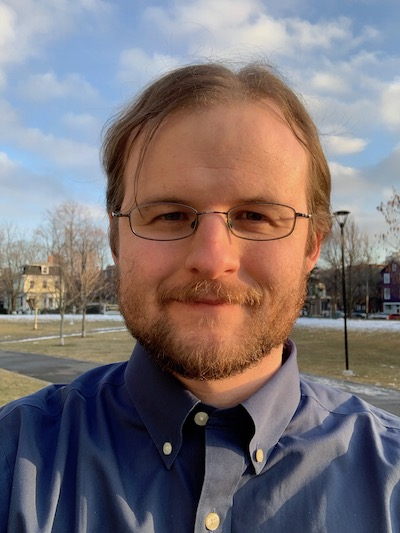
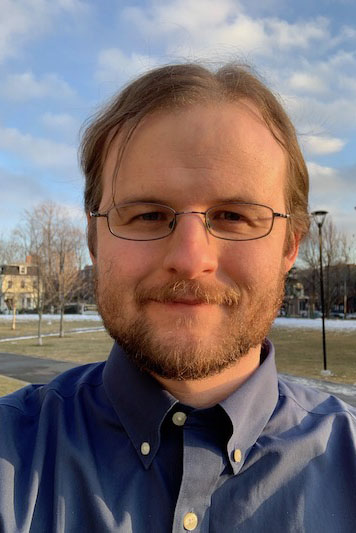
updated content and design

diff --git a/static/css/screen.min.css b/static/css/screen.min.css
@@ -1,1 +1,1 @@
-html,body,div,span,applet,object,iframe,h1,h2,h3,h4,h5,h6,p,blockquote,pre,a,abbr,acronym,address,big,cite,code,del,dfn,em,img,ins,kbd,q,s,samp,small,strike,strong,sub,sup,tt,var,b,u,i,center,dl,dt,dd,ol,ul,li,fieldset,form,input,label,legend,table,caption,tbody,tfoot,thead,tr,th,td,article,aside,canvas,details,embed,figure,figcaption,footer,header,hgroup,menu,main,nav,output,ruby,section,summary,time,mark,audio,video{margin:0;padding:0;border:0;-webkit-box-sizing:border-box;box-sizing:border-box}article,aside,details,figcaption,figure,footer,header,hgroup,main,menu,nav,section{display:block}nav ol,nav ul{list-style:none}blockquote,q{quotes:none}blockquote:before,blockquote:after,q:before,q:after{content:'';content:none}table{border-collapse:collapse;border-spacing:0}button,input[type=submit]{cursor:pointer}h1{font-size:42px;font-weight:lighter}h2{font-size:26px;font-weight:lighter}h3{font-size:20px;font-weight:lighter}p{font-size:15px;font-weight:lighter;color:#909090}a{font-size:20px;text-decoration:none}html,body{width:100%;height:100%}body{background-color:#fff;font-family:"Lato",sans-serif;color:#424242}.contact{width:100%;min-height:100px;padding:20px 0;background-color:#ecf0f1;text-align:left}.contact__inner{max-width:1024px;margin:0 auto}.contact__inner:after{content:'';display:table;clear:both}.contact__title{font-size:28px;font-weight:400;margin-bottom:10px;text-transform:capitalize;text-align:center}.contact__descr{font-size:14px;font-weight:400;margin-bottom:55px;text-align:center}.contact__form{display:block;float:left;max-width:465px;margin:0 15px 0 40px}.contact__form:after{content:'';display:table;clear:both}.contact__form-input{display:inline-block;width:220px;height:45px;margin-bottom:20px;padding-left:12px;border:2px solid #bec3c7;font-style:italic;color:#999}.contact__form-input:first-of-type{margin-right:20px}.contact__form-tarea{display:block;-webkit-box-sizing:border-box;box-sizing:border-box;width:465px;height:155px;margin-bottom:25px;padding:20px 0 0 12px;border:2px solid #bec3c7;font-style:italic;color:#999;resize:none}.contact__form-submit{display:block;float:right;width:115px;height:35px;text-align:center;background-color:#1bbc9b;font-size:15px;color:#fff;text-transform:uppercase;-webkit-transition:all .5s;-o-transition:all .5s;transition:all .5s}.contact__form-submit:hover{background-color:#158f76}.contact__card{display:inline-block;width:230px;height:150px}.contact__card-title{margin-bottom:20px;font-size:14px;line-height:.5;text-transform:uppercase}.contact__card-item{position:relative;font-size:14px;line-height:24px}.contact__card-item:before{display:block;position:absolute;top:0;left:0;font-family:FontAwesome}.contact__card-item.place{padding-left:15px;margin-bottom:15px}.contact__card-item.place:before{content:"\f041"}.contact__card-item.tel{padding-left:17px;margin-bottom:10px}.contact__card-item.tel:before{content:"\f098"}.contact__card-item.fax:before{content:"\f02f"}.contact__card-item.email{display:inline-block;padding-left:20px;font-size:14px;line-height:24px;color:#444}.contact__card-item.email:before{content:"\f003"}.contact__card-item.email:hover{text-decoration:underline}.page-header{width:100%;min-height:95px;background-color:#fff}.page-header:after{content:'';display:table;clear:both}.page-header.is-fixed{position:fixed;top:0;left:0;z-index:999;-webkit-box-shadow:0 2px 4px 0 #424242;box-shadow:0 2px 4px 0 #424242}.page-header__inner{max-width:1024px;margin:0 auto}.page-header__inner:after{content:'';display:table;clear:both}.page-header__logo{float:left;height:50px;margin:25px 0 0 40px;padding:5px 0 0 65px;background:url(../images/logo.jpg) 0 center no-repeat}.page-header__logo h1{font-size:20px;font-weight:700;text-transform:uppercase}.page-header__logo span{font-size:14px;text-transform:capitalize}.page-header__nav{float:right;margin:30px 55px 0 0;background-color:#fff}.page-header__nav li{display:inline-block;margin-left:5px}.page-header__nav-link{display:inline-block;font-size:14px;text-transform:uppercase;padding:10px;-webkit-transition:background-color .2s;-o-transition:background-color .2s;transition:background-color .2s;color:#424242}.page-header__nav-link:hover,.page-header__nav-link.is-active{background-color:#1bbc9b;color:#fff}.page-footer{width:100%;min-height:85px;padding-bottom:30px;background-color:#2d3e50}.page-footer__inner{max-width:1024px;margin:0 auto}.page-footer__inner:after{content:'';display:table;clear:both}.page-footer__copyright{display:inline-block;margin:35px 0 0 45px;font-size:14px;color:#fff}.page-footer__gotop{display:block;float:right;width:45px;height:45px;margin:20px 45px 0 0;font-size:0;text-align:center;overflow:hidden;background-color:#1bbc9b;color:transparent;-webkit-transition:all .5s;-o-transition:all .5s;transition:all .5s}.page-footer__gotop:hover{background-color:#158f76}.page-footer__gotop:before{font-size:20px;line-height:45px;font-family:FontAwesome;content:"\f077";color:#fff}.portfolio{width:100%;min-height:680px;padding-top:50px;background-color:#fff;text-align:center}.portfolio__inner{max-width:1024px;margin:0 auto}.portfolio__inner:after{content:'';display:table;clear:both}.portfolio__title{font-size:40px;font-weight:400;margin-bottom:10px}.portfolio__descr{font-size:18px;font-weight:400;margin-bottom:40px;text-align:justify}.portfolio__filter li{display:inline-block;margin:0 10px;cursor:pointer}.portfolio__filter-btn{display:inline-block;font-size:14px;text-transform:uppercase;padding:10px;color:#fff;background-color:#1bbc9b;-webkit-transition:background-color .2s;-o-transition:background-color .2s;transition:background-color .2s}.portfolio__filter-btn:hover,.portfolio__filter-btn.is-selected{background-color:#158f76}.portfolio__content{margin:45px auto 60px}.portfolio__item{position:relative;display:inline-block;width:180px;height:180px;margin:0 30px 35px;-webkit-border-radius:50%;border-radius:50%;overflow:hidden}.portfolio__item.is-hidden{display:none}.portfolio__item-img{display:inline-block;height:100%;margin:0 auto}.portfolio__item-caption{visibility:hidden;position:absolute;width:100%;height:100%;top:0;padding-top:35px;background-color:#1bbc9b;background-color:rgba(27,188,155,.8);-webkit-border-radius:50%;border-radius:50%;color:#fff;opacity:0;-webkit-transition:all .5s;-o-transition:all .5s;transition:all .5s}.portfolio__item:hover .portfolio__item-caption{opacity:1;visibility:visible}.portfolio__item-title{display:block;font-size:18px;margin-bottom:10px}.portfolio__item-title:before{content:"\f002";-webkit-box-sizing:border-box;box-sizing:border-box;display:block;width:40px;height:40px;-webkit-border-radius:50%;border-radius:50%;margin:0 auto 20px;padding-top:10px;background-color:#ccc;background-color:rgba(0,0,0,.5);font-family:FontAwesome;text-align:center}.portfolio__item-cat{display:block;font-size:15px}.promo{width:100%;min-height:455px;padding:70px 0;background:#323232 url(../images/promo-bg.jpg) center 0 no-repeat;background-attachment:fixed;background-size:cover;text-align:center;color:#fff}.promo__inner{max-width:1024px;margin:0 auto}.promo__inner:after{content:'';display:table;clear:both}.promo__title{margin-bottom:35px;font-size:50px;text-transform:capitalize}.promo__title span{font-weight:700}.promo__descr{max-width:580px;margin:0 auto 50px;font-size:18px;line-height:1.1;color:#fff}.promo__btn{display:block;width:125px;height:35px;margin:0 auto 45px;padding-top:10px;background-color:#1bbc9b;font-size:15px;color:#fff;text-transform:uppercase;-webkit-transition:all .5s;-o-transition:all .5s;transition:all .5s}.promo__btn:hover{background-color:#158f76}.promo__go-next{display:block;width:40px;height:40px;margin:0 auto;background-color:#fff;-webkit-border-radius:50%;border-radius:50%;font-size:0;color:#323232;-webkit-transition:-webkit-transform .5s;transition:-webkit-transform .5s;-o-transition:transform .5s;transition:transform .5s;transition:transform .5s,-webkit-transform .5s}.promo__go-next:before{font-size:30px;line-height:40px;font-family:FontAwesome;content:"\f078"}.promo__go-next:hover{-webkit-transform:scale(1.2);-ms-transform:scale(1.2);transform:scale(1.2)}.team{width:100%;min-height:645px;padding-top:55px;background-color:#16a086;text-align:center}.team__inner{max-width:1024px;margin:0 auto}.team__inner:after{content:'';display:table;clear:both}.team__title{font-size:28px;font-weight:400;margin-bottom:10px;color:#fff;text-transform:capitalize}.team__descr{font-size:14px;font-weight:400;margin-bottom:45px;color:#fff}.team__member{display:inline-block;position:relative;width:220px;margin:0 30px 30px;background-color:#fff}.team__member img{width:100%}.team__member-info{display:block;width:100%;height:190px;padding:15px 10px}.team__member-name{margin-bottom:5px;font-size:18px}.team__member-role{display:block;margin-bottom:20px;font-size:13px;font-style:italic;text-transform:capitalize}.team__member-descr{text-align:left;line-height:1.3}.team__member-soc{display:block;position:absolute;width:180px;height:50px;top:95px;left:50%;margin-left:-90px;background-color:#16a086;background-color:rgba(22,160,134,.8);white-space:nowrap;overflow:hidden;opacity:0;visibility:hidden;-webkit-transition:all .5s;-o-transition:all .5s;transition:all .5s}.team__member:hover .team__member-soc{opacity:1;visibility:visible}.team__member-soc li{display:inline-block}.team__member-icon{display:block;width:45px;height:50px;margin-left:-3px;color:#fff;-webkit-transition:all .3s;-o-transition:all .3s;transition:all .3s;font-size:0}.team__member-icon:hover{color:#c1c1c1}.team__member-icon:before{display:block;font-family:FontAwesome;font-size:30px;line-height:50px}.team__member-icon.fb:before{content:"\f09a"}.team__member-icon.tw:before{content:"\f099"}.team__member-icon.gplus:before{content:"\f0d5"}.team__member-icon.db:before{content:"\f17d"}@media screen and (max-width:1000px){.portfolio__item{width:170px;height:170px;margin:0 1.5% 35px}.team__member{width:190px;margin:0 20px 30px}}@media screen and (max-width:800px){.contact__form{max-width:50%;margin:0 2% 0 8%}.contact__form-input{width:100%}.contact__form-tarea{width:100%}.contact__card{width:40%}.page-header__logo{margin:25px 0 0 10px}.page-header__nav{margin:30px 10px 0 0}.portfolio__item{width:190px;height:190px;margin:0 5% 35px}.team__member{width:180px;margin:0 10px 30px}}@media screen and (max-width:640px){.contact{padding:10px 10px}.contact__form{float:none;max-width:90%;margin:0 auto 50px}.contact__card{display:block;width:230px;margin:20px auto}.contact__card-title{text-align:center}.page-header__logo h1{display:none}.page-header__logo span{display:none}.page-header__nav li{margin-left:0}.portfolio{padding:50px 10px}.portfolio__filter li{margin:0 5px}.team{padding:55px 10px}.team__member{display:block;width:260px;margin:0 auto 30px}.team__member-info{height:auto}.team__member-descr{display:none}.team__member-soc{width:260px;top:220px;margin-left:-130px}}@media screen and (max-width:480px){.contact__form-submit{float:none;margin:0 auto}.page-header{min-height:50px}.page-header__inner{text-align:center}.page-header__logo{float:none;position:relative;display:inline-block;margin:20px auto 10px;text-align:left}.page-header__logo h1{display:block}.page-header__logo span{display:inline-block}.page-header__nav{float:none;margin:10px auto;padding-top:20px;text-align:center;border-top:1px solid #eee}.page-header__nav li{margin-left:0}.page-footer{padding:0 10px 30px;text-align:center}.page-footer__copyright{margin:35px auto 0}.page-footer__gotop{float:none;width:100%;margin:20px auto 0}.portfolio__filter li{display:block}}
+html,body,div,span,applet,object,iframe,h1,h2,h3,h4,h5,h6,p,blockquote,pre,a,abbr,acronym,address,big,cite,code,del,dfn,em,img,ins,kbd,q,s,samp,small,strike,strong,sub,sup,tt,var,b,u,i,center,dl,dt,dd,ol,ul,li,fieldset,form,input,label,legend,table,caption,tbody,tfoot,thead,tr,th,td,article,aside,canvas,details,embed,figure,figcaption,footer,header,hgroup,menu,main,nav,output,ruby,section,summary,time,mark,audio,video{margin:0;padding:0;border:0;-webkit-box-sizing:border-box;box-sizing:border-box}article,aside,details,figcaption,figure,footer,header,hgroup,main,menu,nav,section{display:block}nav ol,nav ul{list-style:none}blockquote,q{quotes:none}blockquote:before,blockquote:after,q:before,q:after{content:'';content:none}table{border-collapse:collapse;border-spacing:0}button,input[type=submit]{cursor:pointer}h1{font-size:42px;font-weight:lighter}h2{font-size:26px;font-weight:lighter}h3{font-size:20px;font-weight:lighter}p{font-size:15px;font-weight:lighter;color:#909090}a{font-size:20px;text-decoration:none}html,body{width:100%;height:100%}body{background-color:#fff;font-family:"Lato",sans-serif;color:#424242}.contact{width:100%;min-height:100px;padding:20px 0;background-color:#ecf0f1;text-align:left}.contact__inner{max-width:1024px;margin:0 auto}.contact__inner:after{content:'';display:table;clear:both}.contact__title{font-size:28px;font-weight:400;margin-bottom:10px;text-transform:capitalize;text-align:center}.contact__descr{font-size:14px;font-weight:400;margin-bottom:55px;text-align:center}.contact__form{display:block;float:left;max-width:465px;margin:0 15px 0 40px}.contact__form:after{content:'';display:table;clear:both}.contact__form-input{display:inline-block;width:220px;height:45px;margin-bottom:20px;padding-left:12px;border:2px solid #bec3c7;font-style:italic;color:#999}.contact__form-input:first-of-type{margin-right:20px}.contact__form-tarea{display:block;-webkit-box-sizing:border-box;box-sizing:border-box;width:465px;height:155px;margin-bottom:25px;padding:20px 0 0 12px;border:2px solid #bec3c7;font-style:italic;color:#999;resize:none}.contact__form-submit{display:block;float:right;width:115px;height:35px;text-align:center;background-color:#1bbc9b;font-size:15px;color:#fff;text-transform:uppercase;-webkit-transition:all .5s;-o-transition:all .5s;transition:all .5s}.contact__form-submit:hover{background-color:#158f76}.contact__card{display:inline-block;width:230px;height:150px}.contact__card-title{margin-bottom:20px;font-size:14px;line-height:.5;text-transform:uppercase}.contact__card-item{position:relative;font-size:14px;line-height:24px}.contact__card-item:before{display:block;position:absolute;top:0;left:0;font-family:FontAwesome}.contact__card-item.place{padding-left:15px;margin-bottom:15px}.contact__card-item.place:before{content:"\f041"}.contact__card-item.tel{padding-left:17px;margin-bottom:10px}.contact__card-item.tel:before{content:"\f098"}.contact__card-item.fax:before{content:"\f02f"}.contact__card-item.email{display:inline-block;padding-left:20px;font-size:14px;line-height:24px;color:#444}.contact__card-item.email:before{content:"\f003"}.contact__card-item.email:hover{text-decoration:underline}.page-header{width:100%;min-height:95px;background-color:#fff}.page-header:after{content:'';display:table;clear:both}.page-header.is-fixed{position:fixed;top:0;left:0;z-index:999;-webkit-box-shadow:0 2px 4px 0 #424242;box-shadow:0 2px 4px 0 #424242}.page-header__inner{max-width:1024px;margin:0 auto}.page-header__inner:after{content:'';display:table;clear:both}.page-header__logo{float:left;height:50px;margin:25px 0 0 40px;padding:5px 0 0 65px;background:url(../images/ijcai.png) 0 center no-repeat}.page-header__logo h1{font-size:20px;font-weight:700;text-transform:uppercase;margin:0 70px}.page-header__logo span{font-size:14px;text-transform:capitalize;margin:0 70px}.page-header__nav{float:right;margin:30px 55px 0 0;background-color:#fff}.page-header__nav li{display:inline-block;margin-left:5px}.page-header__nav-link{display:inline-block;font-size:14px;text-transform:uppercase;padding:10px;-webkit-transition:background-color .2s;-o-transition:background-color .2s;transition:background-color .2s;color:#424242}.page-header__nav-link:hover,.page-header__nav-link.is-active{background-color:#cca475;color:#fff}.page-footer{width:100%;min-height:85px;padding-bottom:30px;background-color:#634b2a}.page-footer__inner{max-width:1024px;margin:0 auto}.page-footer__inner:after{content:'';display:table;clear:both}.page-footer__copyright{display:inline-block;margin:35px 0 0 45px;font-size:14px;color:#fff}.page-footer__gotop{display:block;float:right;width:45px;height:45px;margin:20px 45px 0 0;font-size:0;text-align:center;overflow:hidden;background-color:#ab8b6b;color:transparent;-webkit-transition:all .5s;-o-transition:all .5s;transition:all .5s}.page-footer__gotop:hover{background-color:#158f76}.page-footer__gotop:before{font-size:20px;line-height:45px;font-family:FontAwesome;content:"\f077";color:#fff}.portfolio{width:100%;min-height:680px;padding-top:50px;background-color:#fff;text-align:center}.portfolio__inner{max-width:1024px;margin:0 auto}.portfolio__inner:after{content:'';display:table;clear:both}.portfolio__title{font-size:32px;font-weight:400;margin-bottom:10px}.portfolio__descr{font-size:16px;font-weight:400;margin-bottom:40px;text-align:justify}.portfolio__filter li{display:inline-block;margin:0 10px;cursor:pointer}.portfolio__filter-btn{display:inline-block;font-size:14px;text-transform:uppercase;padding:10px;color:#fff;background-color:#1bbc9b;-webkit-transition:background-color .2s;-o-transition:background-color .2s;transition:background-color .2s}.portfolio__filter-btn:hover,.portfolio__filter-btn.is-selected{background-color:#158f76}.portfolio__content{margin:45px auto 60px}.portfolio__item{position:relative;display:inline-block;width:180px;height:180px;margin:0 30px 35px;-webkit-border-radius:50%;border-radius:50%;overflow:hidden}.portfolio__item.is-hidden{display:none}.portfolio__item-img{display:inline-block;height:100%;margin:0 auto}.portfolio__item-caption{visibility:hidden;position:absolute;width:100%;height:100%;top:0;padding-top:35px;background-color:#1bbc9b;background-color:rgba(27,188,155,.8);-webkit-border-radius:50%;border-radius:50%;color:#fff;opacity:0;-webkit-transition:all .5s;-o-transition:all .5s;transition:all .5s}.portfolio__item:hover .portfolio__item-caption{opacity:1;visibility:visible}.portfolio__item-title{display:block;font-size:18px;margin-bottom:10px}.portfolio__item-title:before{content:"\f002";-webkit-box-sizing:border-box;box-sizing:border-box;display:block;width:40px;height:40px;-webkit-border-radius:50%;border-radius:50%;margin:0 auto 20px;padding-top:10px;background-color:#ccc;background-color:rgba(0,0,0,.5);font-family:FontAwesome;text-align:center}.portfolio__item-cat{display:block;font-size:15px}.promo{width:100%;min-height:300px;padding:70px 0;background:#323232 url(../images/vienna.png) center 0 no-repeat;background-attachment:fixed;background-size:cover;text-align:center;color:#fff}.promo__inner{max-width:1024px;margin:0 auto}.promo__inner:after{content:'';display:table;clear:both}.promo__title{margin-bottom:35px;font-size:36px;text-transform:capitalize}.promo__title span{font-weight:700}.promo__descr{max-width:580px;margin:0 auto 50px;font-size:18px;line-height:1.1;color:#fff}.promo__btn{display:block;width:125px;height:35px;margin:0 auto 45px;padding-top:10px;background-color:#1bbc9b;font-size:15px;color:#fff;text-transform:uppercase;-webkit-transition:all .5s;-o-transition:all .5s;transition:all .5s}.promo__btn:hover{background-color:#158f76}.promo__go-next{display:block;width:40px;height:40px;margin:0 auto;background-color:#fff;-webkit-border-radius:50%;border-radius:50%;font-size:0;color:#323232;-webkit-transition:-webkit-transform .5s;transition:-webkit-transform .5s;-o-transition:transform .5s;transition:transform .5s;transition:transform .5s,-webkit-transform .5s}.promo__go-next:before{font-size:30px;line-height:40px;font-family:FontAwesome;content:"\f078"}.promo__go-next:hover{-webkit-transform:scale(1.2);-ms-transform:scale(1.2);transform:scale(1.2)}.team{width:100%;min-height:645px;padding-top:55px;background-color:#ab8b6b;text-align:center}.team__inner{max-width:1024px;margin:0 auto}.team__inner:after{content:'';display:table;clear:both}.team__title{font-size:28px;font-weight:400;margin-bottom:10px;color:#fff;text-transform:capitalize}.team__descr{font-size:14px;font-weight:400;margin-bottom:45px;color:#fff}.team__member{display:inline-block;position:relative;vertical-align:top;width:250px;margin:0 30px 30px;background-color:#fff}.team__member img{width:100%}.team__member-info{display:block;width:100%;height:460px;padding:15px 10px}.team__member-name{margin-bottom:5px;font-size:18px}.team__member-role{display:block;margin-bottom:20px;font-size:13px;font-style:italic;text-transform:capitalize}.team__member-descr{text-align:left;line-height:1.3}.team__member-soc{display:block;position:absolute;width:180px;height:50px;top:95px;left:50%;margin-left:-90px;background-color:#16a086;background-color:rgba(22,160,134,.8);white-space:nowrap;overflow:hidden;opacity:0;visibility:hidden;-webkit-transition:all .5s;-o-transition:all .5s;transition:all .5s}.team__member:hover .team__member-soc{opacity:1;visibility:visible}.team__member-soc li{display:inline-block}.team__member-icon{display:block;width:45px;height:50px;margin-left:-3px;color:#fff;-webkit-transition:all .3s;-o-transition:all .3s;transition:all .3s;font-size:0}.team__member-icon:hover{color:#c1c1c1}.team__member-icon:before{display:block;font-family:FontAwesome;font-size:30px;line-height:50px}.team__member-icon.fb:before{content:"\f09a"}.team__member-icon.tw:before{content:"\f099"}.team__member-icon.gplus:before{content:"\f0d5"}.team__member-icon.db:before{content:"\f17d"}@media screen and (max-width:1000px){.portfolio__item{width:170px;height:170px;margin:0 1.5% 35px}.team__member{width:190px;margin:0 20px 30px}}@media screen and (max-width:800px){.contact__form{max-width:50%;margin:0 2% 0 8%}.contact__form-input{width:100%}.contact__form-tarea{width:100%}.contact__card{width:40%}.page-header__logo{margin:25px 0 0 10px}.page-header__nav{margin:30px 10px 0 0}.portfolio__item{width:190px;height:190px;margin:0 5% 35px}.team__member{width:180px;margin:0 10px 30px}}@media screen and (max-width:640px){.contact{padding:10px 10px}.contact__form{float:none;max-width:90%;margin:0 auto 50px}.contact__card{display:block;width:230px;margin:20px auto}.contact__card-title{text-align:center}.page-header__logo h1{display:none}.page-header__logo span{display:none}.page-header__nav li{margin-left:0}.portfolio{padding:50px 10px}.portfolio__filter li{margin:0 5px}.team{padding:55px 10px}.team__member{display:block;width:260px;margin:0 auto 30px}.team__member-info{height:auto}.team__member-descr{display:none}.team__member-soc{width:260px;top:220px;margin-left:-130px}}@media screen and (max-width:480px){.contact__form-submit{float:none;margin:0 auto}.page-header{min-height:50px}.page-header__inner{text-align:center}.page-header__logo{float:none;position:relative;display:inline-block;margin:20px auto 10px;text-align:left}.page-header__logo h1{display:block}.page-header__logo span{display:inline-block}.page-header__nav{float:none;margin:10px auto;padding-top:20px;text-align:center;border-top:1px solid #eee}.page-header__nav li{margin-left:0}.page-footer{padding:0 10px 30px;text-align:center}.page-footer__copyright{margin:35px auto 0}.page-footer__gotop{float:none;width:100%;margin:20px auto 0}.portfolio__filter li{display:block}}

diff --git a/index.html b/index.html
@@ -1,1 +1,1 @@
-<!DOCTYPE html><html lang="en"><head><meta charset="utf-8"><meta http-equiv="X-UA-Compatible" content="IE=edge"><meta name="viewport" content="width=device-width,initial-scale=1"><title>Home | IJCAI 2022 Tutorial: Differentiable Optimization: Integrating Structural Information into Training Pipeline</title><meta name="description" content="Page-specific description"><meta name="keywords" content="Page-specific keywords"><link rel="shortcut icon" href="favicon.ico"><link rel="shortcut icon" href="static/images/favicons/favicon.png" type="image/x-icon"><link rel="apple-touch-icon" href="static/images/favicons/apple-touch-icon.png"><link rel="apple-touch-icon-precomposed" href="static/images/favicons/apple-touch-icon-precomposed.png"><link href="https://fonts.googleapis.com/css?family=Lato:400,300,700" rel="stylesheet" type="text/css"><link rel="stylesheet" href="//netdna.bootstrapcdn.com/font-awesome/4.0.3/css/font-awesome.css"><link rel="stylesheet" href="static/css/screen.min.css"><link rel="stylesheet" href="static/css/custom.min.css"></head><body><!-- $Page header--><header class="page-header js-header"><div class="page-header__inner"><div class="page-header__logo"><h1>IJCAI 2022</h1>&nbsp;<span>Tutorial: Differentiable Optimization</span></div><nav class="page-header__nav js-nav"><ul><li><a class="page-header__nav-link js-anchor js-link is-active" href="#home">Home</a></li><li><a class="page-header__nav-link js-anchor js-link" href="#portfolio">Tutorial</a></li><li><a class="page-header__nav-link js-anchor js-link" href="#team">Team</a></li><li><a class="page-header__nav-link js-anchor js-link" href="#contact">Contact</a></li></ul></nav></div></header><!-- $Promo section--><section class="promo js-jumbo" id="home"><h1 class="promo__title"><span>IJCAI 2022 Tutorial;</span></h1><h2 class="promo__title"><span>Differentiable Optimization: Integrating Structural Information into Training Pipeline</span></h2><a class="promo__go-next js-anchor" href="#portfolio">Scroll down</a></section><!-- $Portfolio section--><section class="portfolio js-portfolio" id="portfolio"><div class="portfolio__inner"><h2 class="portfolio__title">Abstract</h2><p class="portfolio__descr">Structural information and domain knowledge are two necessary components of training a good machine learning model to maximize the performance in the targeted application. This tutorial summarizes how to use optimization as a differentiable building block to incorporate the non-trivial operational information in applications into machine learning models.</p><h2 class="portfolio__title">Tutorial Description</h2><p class="portfolio__descr">Machine learning models have achieved significant success in many industrial applications and social challenges, including natural language processing, computer vision, time series analysis, and recommendation systems. To adapt to different applications, incorporating structural information and domain knowledge in applications into machine learning models is an important element of the training process. But it often relies on fine-tuning and feature-engineering without a systematic approach to adapt to various applications. On the other hand, operational research is an application-driven approach, where optimization problems are formulated based on the knowledge and constraints of targeted applications to derive actionable solutions. Optimization formulations can capture structural information and domain knowledge in applications, but the non-differentiability and the complex operational processes in optimization make it hard to integrate into machine learning models.<br><br>This tutorial starts from the foundation of differentiable optimization to discuss how to convert optimization into differentiable building blocks to use in larger architectures. The direct benefit of differentiable optimization is to integrate structural information and domain knowledge in optimization formulations into machine learning models. The first part of the tutorial covers a variety of applications using optimization as differentiable units in machine learning models to properly handle operational tasks in reinforcement learning, control, optimal transport, and geometry. Experiments demonstrate that differentiable optimization can model operational processes more efficiently than neural networks. The second part of the tutorial focuses on integrating various industrial and social challenges as differentiable optimization layers into the training pipeline. This integration of machine learning models and application-driven optimization leads to end-to-end learning, decision-focused learning, that trains models to directly optimize the performance in targeted applications. Lastly, the tutorial concludes with a series of applications of differentiable optimization and its computational limitations with various open directions left to the audiences.</p><h2 class="portfolio__title">Related Materials</h2><nav class="portfolio__filter"><ul><li class="portfolio__filter-btn is-selected js-filter" data-filter="all">All</li><li class="portfolio__filter-btn js-filter" data-filter="web">Web design</li><li class="portfolio__filter-btn js-filter" data-filter="graphic">Graphic design</li><li class="portfolio__filter-btn js-filter" data-filter="flat">Flat design</li></ul></nav><ul class="portfolio__content"><li class="portfolio__item js-item" data-cat="all flat"><a href="#"><img class="portfolio__item-img js-lazy" src="static/images/port1.png" alt=""><div class="portfolio__item-caption"><span class="portfolio__item-title">Example title</span><span class="portfolio__item-cat">Flat design</span></div></a></li><li class="portfolio__item js-item" data-cat="all web"><a href="#"><img class="portfolio__item-img js-lazy" src="static/images/port2.png" alt=""><div class="portfolio__item-caption"><span class="portfolio__item-title">Example title</span><span class="portfolio__item-cat">Web design</span></div></a></li><li class="portfolio__item js-item" data-cat="all graphic"><a href="#"><img class="portfolio__item-img js-lazy" src="static/images/port3.png" alt=""><div class="portfolio__item-caption"><span class="portfolio__item-title">Example title</span><span class="portfolio__item-cat">Graphic design</span></div></a></li><li class="portfolio__item js-item" data-cat="all graphic web"><a href="#"><img class="portfolio__item-img js-lazy" src="static/images/port4.png" alt=""><div class="portfolio__item-caption"><span class="portfolio__item-title">Example title</span><span class="portfolio__item-cat">Graphic design</span></div></a></li><li class="portfolio__item js-item" data-cat="all graphic flat"><a href="#"><img class="portfolio__item-img js-lazy" src="static/images/port6.png" alt=""><div class="portfolio__item-caption"><span class="portfolio__item-title">Example title</span><span class="portfolio__item-cat">Flat design</span></div></a></li><li class="portfolio__item js-item" data-cat="all web"><a href="#"><img class="portfolio__item-img js-lazy" src="static/images/port5.png" alt=""><div class="portfolio__item-caption"><span class="portfolio__item-title">Example title</span><span class="portfolio__item-cat">Web design</span></div></a></li><li class="portfolio__item js-item" data-cat="all flat web"><a href="#"><img class="portfolio__item-img js-lazy" src="static/images/port1.png" alt=""><div class="portfolio__item-caption"><span class="portfolio__item-title">Example title</span><span class="portfolio__item-cat">Flat design</span></div></a></li><li class="portfolio__item js-item" data-cat="all web"><a href="#"><img class="portfolio__item-img js-lazy" src="static/images/port2.png" alt=""><div class="portfolio__item-caption"><span class="portfolio__item-title">Example title</span><span class="portfolio__item-cat">Web design</span></div></a></li></ul></div></section><!-- $Team section--><section class="team" id="team"><div class="team__inner"><h2 class="team__title">About us</h2><div class="team__member"><img src="static/images/kai.png" alt="Kai Wang"><div class="team__member-info"><h3 class="team__member-name">Kai Wang</h3><span class="team__member-role">Harvard University</span><p class="team__member-descr">I am a 5th-year Ph.D. in Computer Science at Harvard University focusing on differentiable optimization and machine learning.</p></div><ul class="team__member-soc"><li><a class="team__member-icon tw" href="https://twitter.com/kaiwang_gua">Follow me on twitter</a></li><li><a class="team__member-icon gplus" href="https://scholar.google.com/citations?user=gGSsQmsAAAAJ&amp;hl=en">My Google+</a></li><li><a class="team__member-icon db" href="#">I am on Dribble</a></li></ul></div><div class="team__member"><img src="static/images/andrew.jpg" alt="Andrew Perrault"><div class="team__member-info"><h3 class="team__member-name">Andrew Perrault</h3><span class="team__member-role">The Ohio State University</span><p class="team__member-descr">I am an assistant professor in the Department of Computer Science and Engineering at The Ohio State University.</p></div><ul class="team__member-soc"><li><a class="team__member-icon tw" href="https://twitter.com/PerraultAndrew">Follow me on twitter</a></li><li><a class="team__member-icon gplus" href="https://scholar.google.com/citations?user=2eWscBQAAAAJ&amp;hl=en&amp;oi=ao">My Google+</a></li><li><a class="team__member-icon db" href="#">I am on Dribble</a></li></ul></div><div class="team__member"><img src="static/images/brandon.png" alt="Brandon Amos"><div class="team__member-info"><h3 class="team__member-name">Brandon Amos</h3><span class="team__member-role">Facebook AI (FAIR)</span><p class="team__member-descr">I am a research scientist at Facebook AI (FAIR) in NYC and study foundational topics in machine learning and optimization.</p></div><ul class="team__member-soc"><li><a class="team__member-icon tw" href="https://twitter.com/brandondamos">Follow me on twitter</a></li><li><a class="team__member-icon gplus" href="https://scholar.google.com/citations?user=d8gdZR4AAAAJ">My Google+</a></li><li><a class="team__member-icon db" href="#">I am on Dribble</a></li></ul></div></div></section><!-- $Contact section--><section class="contact" id="contact"><div class="contact__inner"><h2 class="contact__title">Contact us</h2><p class="contact__descr">Kai Wang &nbsp | &nbsp <a class="contact__card-item email">kaiwang@g.harvard.edu</a></p></div></section><!-- $Page footer--><footer class="page-footer"><div class="page-footer__inner"><span class="page-footer__copyright">&copy; Copyright 2013 Bak-One | One Page Flat Template</span><a class="page-footer__gotop js-anchor" href="#home">Go to top</a></div></footer><script src="static/js/body.min.js"></script></body></html>
+<!DOCTYPE html><html lang="en"><head><meta charset="utf-8"><meta http-equiv="X-UA-Compatible" content="IE=edge"><meta name="viewport" content="width=device-width,initial-scale=1"><title>Home | IJCAI 2022 Tutorial: Differentiable Optimization: Integrating Structural Information into Training Pipeline</title><meta name="description" content="Page-specific description"><meta name="keywords" content="Page-specific keywords"><link rel="shortcut icon" href="favicon.ico"><link rel="shortcut icon" href="static/images/favicons/favicon.png" type="image/x-icon"><link rel="apple-touch-icon" href="static/images/favicons/apple-touch-icon.png"><link rel="apple-touch-icon-precomposed" href="static/images/favicons/apple-touch-icon-precomposed.png"><link href="https://fonts.googleapis.com/css?family=Lato:400,300,700" rel="stylesheet" type="text/css"><link rel="stylesheet" href="//netdna.bootstrapcdn.com/font-awesome/4.0.3/css/font-awesome.css"><link rel="stylesheet" href="static/css/screen.min.css"><link rel="stylesheet" href="static/css/custom.min.css"></head><body><!-- $Page header--><header class="page-header js-header"><div class="page-header__inner"><div class="page-header__logo"><h1>Tutorial</h1>&nbsp;<span>Differentiable Optimization</span></div><nav class="page-header__nav js-nav"><ul><li><a class="page-header__nav-link js-anchor js-link is-active" href="#home">Home</a></li><li><a class="page-header__nav-link js-anchor js-link" href="#portfolio">Tutorial</a></li><li><a class="page-header__nav-link js-anchor js-link" href="#team">Team</a></li><li><a class="page-header__nav-link js-anchor js-link" href="#contact">Contact</a></li></ul></nav></div></header><!-- $Promo section--><section class="promo js-jumbo" id="home"><h1 class="promo__title"><span>IJCAI 2022 Tutorial;</span></h1><h2 class="promo__title"><span>Differentiable Optimization: Integrating Structural Information into Training Pipeline</span></h2><a class="promo__go-next js-anchor" href="#portfolio">Scroll down</a></section><!-- $Portfolio section--><section class="portfolio js-portfolio" id="portfolio"><div class="portfolio__inner"><h2 class="portfolio__title">Abstract</h2><p class="portfolio__descr">Structural information and domain knowledge are two necessary components of training a good machine learning model to maximize the performance in the targeted application. This tutorial summarizes how to use optimization as a differentiable building block to incorporate the non-trivial operational information in applications into machine learning models.</p><h2 class="portfolio__title">Tutorial Description</h2><p class="portfolio__descr">Machine learning models have achieved significant success in many industrial applications and social challenges, including natural language processing, computer vision, time series analysis, and recommendation systems. To adapt to different applications, incorporating structural information and domain knowledge in applications into machine learning models is an important element of the training process. But it often relies on fine-tuning and feature-engineering without a systematic approach to adapt to various applications. On the other hand, operational research is an application-driven approach, where optimization problems are formulated based on the knowledge and constraints of targeted applications to derive actionable solutions. Optimization formulations can capture structural information and domain knowledge in applications, but the non-differentiability and the complex operational processes in optimization make it hard to integrate into machine learning models.<br><br>This tutorial starts from the foundation of differentiable optimization to discuss how to convert optimization into differentiable building blocks to use in larger architectures. The direct benefit of differentiable optimization is to integrate structural information and domain knowledge in optimization formulations into machine learning models. The first part of the tutorial covers a variety of applications using optimization as differentiable units in machine learning models to properly handle operational tasks in reinforcement learning, control, optimal transport, and geometry. Experiments demonstrate that differentiable optimization can model operational processes more efficiently than neural networks. The second part of the tutorial focuses on integrating various industrial and social challenges as differentiable optimization layers into the training pipeline. This integration of machine learning models and application-driven optimization leads to end-to-end learning, decision-focused learning, that trains models to directly optimize the performance in targeted applications. Lastly, the tutorial concludes with a series of applications of differentiable optimization and its computational limitations with various open directions left to the audiences.</p></div></section><!-- $Team section--><section class="team" id="team"><div class="team__inner"><h2 class="team__title">About us</h2><div class="team__member"><img src="static/images/kai.png" alt="Kai Wang"><div class="team__member-info"><h3 class="team__member-name">Kai Wang</h3><span class="team__member-role">Harvard University</span><p class="team__member-descr">I am a Ph.D. candidate studying Computer Science at Harvard University working with Professor Milind Tambe. My research focuses on using artificial intelligence to resolve various social challenges, including wildlife conservation and healthcare challenges. I formulate these social challenges as multi-agent systems and learn the unknown information from data using machine learning. I apply and generalize a new learning algorithm, decision-focused learning, to integrate the domain knowledge from social challenges into machine learning pipelines.</p></div><ul class="team__member-soc"><li><a class="team__member-icon tw" href="https://twitter.com/kaiwang_gua">Follow me on twitter</a></li><li><a class="team__member-icon gplus" href="https://scholar.google.com/citations?user=gGSsQmsAAAAJ&amp;hl=en">My Google+</a></li><li><a class="team__member-icon db" href="https://guaguakai.github.io/">Personal website</a></li></ul></div><div class="team__member"><img src="static/images/andrew.png" alt="Andrew Perrault"><div class="team__member-info"><h3 class="team__member-name">Andrew Perrault</h3><span class="team__member-role">The Ohio State University</span><p class="team__member-descr">I am an assistant professor in the Department of Computer Science and Engineering at The Ohio State University. My research focuses on multi-agent interactions that arise in combating societal challenges, especially in the areas of conservation and public health. These interactions often involve challenges of uncertainty in the environment and the utility functions of the agents, necessitating approaches that handle scarce data. To achieve this end, I combine methodologies from game theory and multi-agent systems with machine learning, robust planning and optimization techniques.</p></div><ul class="team__member-soc"><li><a class="team__member-icon tw" href="https://twitter.com/PerraultAndrew">Follow me on twitter</a></li><li><a class="team__member-icon gplus" href="https://scholar.google.com/citations?user=2eWscBQAAAAJ&amp;hl=en&amp;oi=ao">My Google+</a></li><li><a class="team__member-icon db" href="https://aperrault.github.io/">Personal website</a></li></ul></div><div class="team__member"><img src="static/images/brandon.png" alt="Brandon Amos"><div class="team__member-info"><h3 class="team__member-name">Brandon Amos</h3><span class="team__member-role">Facebook AI (FAIR)</span><p class="team__member-descr">I am a research scientist at Facebook AI (FAIR) in NYC and study foundational topics in machine learning and optimization, recently involving reinforcement learning, control, optimal transport, and geometry. My research is on learning systems that understand and interact with our world and focuses on integrating structural information and domain knowledge into these systems to represent non-trivial reasoning operations. A key theme of my work in this space involves the use of optimization as a differentiable building block in larger architectures that are end-to-end learned.</p></div><ul class="team__member-soc"><li><a class="team__member-icon tw" href="https://twitter.com/brandondamos">Follow me on twitter</a></li><li><a class="team__member-icon gplus" href="https://scholar.google.com/citations?user=d8gdZR4AAAAJ">My Google+</a></li><li><a class="team__member-icon db" href="http://bamos.github.io/">Personal website</a></li></ul></div></div></section><!-- $Contact section--><section class="contact" id="contact"><div class="contact__inner"><h2 class="contact__title">Contact us</h2><p class="contact__descr">Kai Wang &nbsp | &nbsp <a class="contact__card-item email">kaiwang@g.harvard.edu</a></p></div></section><!-- $Page footer--><footer class="page-footer"><div class="page-footer__inner"><span class="page-footer__copyright">&copy; Copyright 2013 Bak-One | One Page Flat Template</span><a class="page-footer__gotop js-anchor" href="#home">Go to top</a></div></footer><script src="static/js/body.min.js"></script></body></html>
